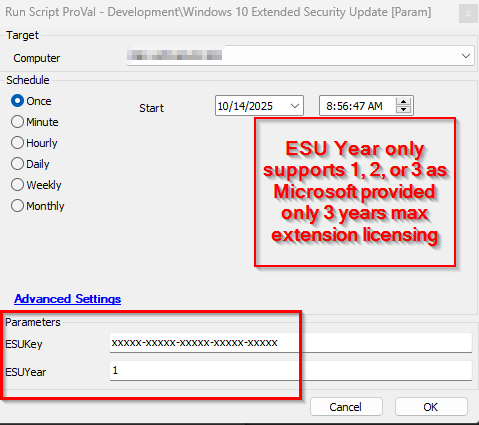
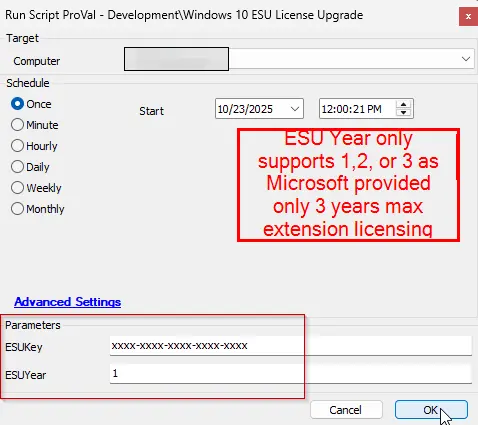
Windows 10 22H2 ESU License Status
Automate:

Script:
	esu-license-activation-detection.md
	windows-10-esu-license-upgrade

internal monitor:
	windows-10-22h2-esu-license-status

dataview:
	esu-detection-status

solution:
	windows-10-esu-licensing-and-auditing

diff --git a/docs/solutions/Windows-10-esu-licensing-and-auditing.md b/docs/solutions/Windows-10-esu-licensing-and-auditing.md
@@ -1,0 +1,85 @@
+---
+id: '7fe6a52b-79fd-487b-8009-523996e74d11'
+slug: /7fe6a52b-79fd-487b-8009-523996e74d11
+title: 'Windows 10 ESU Licensing and Auditing'
+title_meta: 'Windows 10 ESU Licensing and Auditing'
+keywords: ['esu', 'license', 'extended', 'windows-10', '22h2']
+description: 'This solution provides automated auditing of Windows 10 Extended Security Updates (ESU) license status across Windows 10 22H2 machines from ConnectWise Automate platform. It includes functionality to track activation status and optionally deploy ESU licenses when needed.'
+tags: ['licensing', 'windows', 'extensions']
+draft: false
+unlisted: false
+---
+
+## Purpose
+
+This solution provides automated auditing of Windows 10 Extended Security Updates (ESU) license status across Windows 10 22H2 machines from ConnectWise Automate platform. It includes functionality to track activation status and optionally deploy ESU licenses when needed.
+
+**References:**
+
+- [Enable Extended Security Updates](https://learn.microsoft.com/en-us/windows/whats-new/enable-extended-security-updates)
+- [Deploy Windows 10 Security Updates with Intune or SCCM](https://www.systemcenterdudes.com/deploy-windows-10-extended-security-update-key-with-intune-or-sccm/)
+
+## Associated Content
+
+### Audit Content
+
+| Content                                             | Type               | Purpose |
+|-----------------------------------------------------|--------------------|--------------------|
+| [ESU License Activation Detection](/docs/634db1b5-58a2-4571-8873-74040c203d56)      | Script             | Performs ESU activation checks on a device, collects status details and writes results to an EDF for reporting. |
+| [ESU Detection Status](/docs/57995fb1-5d65-4283-aa82-0c3f821652bc)      | Dataview           | Presents the collected ESU audit results for reporting and remediation planning. |
+| [Windows 10 22H2 ESU License Status](/docs/75abc7b8-1ff2-42d4-8028-dd0a3adaf899) | Internal Monitor   | Identifies 22H2 endpoints that have not been audited in the last 7 days. |
+| △ Custom - Execute Script - ESU License Activation Detection | Alert Template     | Automatically runs the audit script against devices detected by the internal monitor. |
+
+### Additional Content
+
+| Content                                             | Type               | Purpose |
+|-----------------------------------------------------|--------------------|--------------------|
+| [Windows 10 Extended Security Update](/docs/765670f5-5120-4066-89d8-2cda873e8212)    | Script  | On‑demand installer/activator that applies an ESU product key to a target machine using supplied runtime parameters. Designed for manual execution or scheduled use if desired. |
+
+## Implementation
+
+### Step 1
+
+Import the following content from ProSync plugin:
+
+- [Script - ESU License Activation Detection](/docs/634db1b5-58a2-4571-8873-74040c203d56)
+- [Script - Windows 10 Extended Security Update](/docs/765670f5-5120-4066-89d8-2cda873e8212)
+- [Dataview - ESU Detection Status](/docs/57995fb1-5d65-4283-aa82-0c3f821652bc)
+- [Internal Monitor - Windows 10 22H2 ESU License Status](/docs/75abc7b8-1ff2-42d4-8028-dd0a3adaf899)
+- Alert Template - △ Custom - Execute Script - ESU License Activation Detection
+
+### Step 2
+
+Reload System Cache (Ctrl + R)
+
+### Step 3
+
+Configure the auditing solution as follow:
+
+- Internal Monitor: [Windows 10 22H2 ESU License Status](/docs/75abc7b8-1ff2-42d4-8028-dd0a3adaf899)
+  - Alert Template: `△ Custom - Execute Script - ESU License Activation Detection`
+
+### Step 4
+
+- Use [ESU Detection Status](/docs/57995fb1-5d65-4283-aa82-0c3f821652bc) dataview for an at‑a‑glance inventory and filtering of devices by ESU state.
+- Run [Windows 10 Extended Security Update](/docs/765670f5-5120-4066-89d8-2cda873e8212) manually on devices that require key installation, or create a scheduled job targeting non‑compliant hosts.
+
+## FAQ
+
+Q: What does this solution detect?
+A: It determines whether Windows 10 22H2 devices have ESU activated, captures activation metadata, and flags devices that have not been audited recently.
+
+Q: How frequently are devices checked?
+A: The internal monitor flags devices that haven't been audited in the last 7 days; the alert template runs the audit script against those devices automatically. You can adjust monitor frequency to fit your cadence.
+
+Q: Can ESU keys be applied automatically?
+A: The included [Windows 10 Extended Security Update](/docs/765670f5-5120-4066-89d8-2cda873e8212) script can be run on demand. For automated deployments, create a scheduled job or alert action that executes the script with the required runtime parameters against selected targets.
+
+Q: Where do I view results and plan remediation?
+A: Use the [ESU Detection Status](/docs/57995fb1-5d65-4283-aa82-0c3f821652bc) dataview to filter by ESU state, last audited date, and other attributes to build remediation lists.
+
+Q: What happens if the activation script fails on a device?
+A: The audit output will capture the failure details. Use the dataview to identify failed attempts, review the script output in the device's script history, correct any precondition issues (connectivity, privileges, key validity) and retry.
+
+Q: Is this solution limited to ConnectWise Automate?
+A: This package and the implementation instructions are tailored for ConnectWise Automate (ProSync import). The concepts (audit script, reporting, and an activation script) can be adapted to other platforms but require platform‑specific packaging and triggers.

diff --git a/docs/cwa/scripts/windows-10-esu-license-upgrade.md b/docs/cwa/scripts/windows-10-esu-license-upgrade.md
@@ -1,0 +1,46 @@
+---
+id: '765670f5-5120-4066-89d8-2cda873e8212'
+slug: /765670f5-5120-4066-89d8-2cda873e8212
+title: 'Windows 10 ESU License Upgrade'
+title_meta: 'Windows 10 ESU License Upgrade'
+keywords: ['esu', 'license', 'extended', 'windows-10', '22h2']
+description: 'Applies Extended Security Updates (ESU) license for Windows 10 22H2 systems. The Windows 10 Extended Security Updates program provides critical security patches for up to three years beyond the official end of support date. It is intended for systems that cannot be upgraded immediately due to hardware, software compatibility, or organizational constraints.'
+tags: ['licensing', 'windows', 'extensions']
+draft: false
+unlisted: false
+---
+
+## Summary
+
+Applies Extended Security Updates (ESU) license for Windows 10 22H2 systems. The Windows 10 Extended Security Updates program provides critical security patches for up to three years beyond the official end of support date. It is intended for systems that cannot be upgraded immediately due to hardware, software compatibility, or organizational constraints.
+
+**References:**
+
+- [Enable Extended Security Updates](https://learn.microsoft.com/en-us/windows/whats-new/enable-extended-security-updates)
+- [Deploy Windows 10 Security Updates with Intune or SCCM](https://www.systemcenterdudes.com/deploy-windows-10-extended-security-update-key-with-intune-or-sccm/)
+
+## File Hash
+
+**File Path:** `C:\ProgramData\_automation\Script\Apply-Windows10ESULicense\Apply-Windows10ESULicense.ps1`  
[1 lines of base64/hex data omitted]
+**File Hash (MD5):** `24CCB18FF0448B9BED43D7BC1D6F9B5E`  
+
+## Sample Run
+
+![Sample Run](../../../static/img/docs/2731179e-384e-4fda-907a-365368ebf742/image.webp)
+
+## Dependencies
+
+- [Script - ESU License Activation Detection](/docs/634db1b5-58a2-4571-8873-74040c203d56)
+- [Solution - Windows 10 ESU Licensing and Auditing](/docs/7fe6a52b-79fd-487b-8009-523996e74d11)
+
+## User Parameters
+
+| Name      | Example                  | Required | Accepted Values | Description                                                                                       |
+|-----------|--------------------------|----------|-----------------|----------------------------------------------------------------------------------|
+| ESUKey    | xxxx-xxxx-xxxx-xxxx-xxxx | True     |                 | Provide the ESU license key for the Windows 10 extended support     |
+| ESUYear   | 1                        | True     | 1, 2, 3         | Set this to the number of years for which the ESU license being issued. The max number is 3 as Microsoft has only allowed for maximum three years extension |
+
+## Output
+
+- Script log

diff --git a/docs/cwa/dataviews/esu-detection-status.md b/docs/cwa/dataviews/esu-detection-status.md
@@ -1,0 +1,34 @@
+---
+id: '57995fb1-5d65-4283-aa82-0c3f821652bc'
+slug: /57995fb1-5d65-4283-aa82-0c3f821652bc
+title: 'ESU Detection Status'
+title_meta: 'ESU Detection Status'
+keywords: ['esu', 'license', 'extended', 'windows-10', '22h2']
+description: 'This dataview displays the Windows 10 ESU extended license status audited by the script ESU License Activation Detection.'
+tags: ['licensing', 'windows', 'extensions']
+draft: false
+unlisted: false
+---
+
+## Summary
+
+This dataview displays the Windows 10 ESU extended license status audited by the [ESU License Activation Detection](/docs/634db1b5-58a2-4571-8873-74040c203d56) script.
+
+## Dependencies
+
+- [Script - ESU License Activation Detection](/docs/634db1b5-58a2-4571-8873-74040c203d56)
+- [Solution - Windows 10 ESU Licensing and Auditing](/docs/7fe6a52b-79fd-487b-8009-523996e74d11)
+
+## Columns
+
+| Column | Description |
+| ------ | ----------- |
+| ClientId     |   CW Automate client id of the agent          |
+| LocationId | CW Automate location id of the agent  |
+| ComputerId | CW Automate computer id of the agent  |
+| Client | Client name of the agent |
+| Location | Location name of the agent |
+| Computer | Computer name of the agent |
+| Operating System | Operating system information of the agent |
+| LastContact | Last contact of the agent with the CW Automate |
+| ESU Status | ESU license renewal status of the agent |

diff --git a/docs/cwa/scripts/esu-license-activation-detection.md b/docs/cwa/scripts/esu-license-activation-detection.md
@@ -1,0 +1,35 @@
+---
+id: '634db1b5-58a2-4571-8873-74040c203d56'
+slug: /634db1b5-58a2-4571-8873-74040c203d56
+title: 'ESU License Activation Detection'
+title_meta: 'ESU License Activation Detection'
+keywords: ['esu', 'license', 'extended', 'windows-10', '22h2']
+description: 'This script performs checks for ESU license activation detection and stores the information in the EDF, reflecting it in the DV.'
+tags: ['licensing', 'windows', 'extensions']
+draft: false
+unlisted: false
+---
+
+## Summary
+
+This script performs checks for ESU license activation detection and stores the information to the computer EDF `ESU Detection`, reflecting it in the [ESU Detection Status](/docs/57995fb1-5d65-4283-aa82-0c3f821652bc) dataview.
+
+## Sample Run
+
+![Sample Run](../../../static/img/docs/2731179e-384e-4fda-907a-365368ebf742/image1.webp)
+
+## Dependencies
+
+- [Solution - Windows 10 ESU Licensing and Auditing](/docs/7fe6a52b-79fd-487b-8009-523996e74d11)
+
+## EDF
+
+| Name | Type | Level | Section | Required | Description |
+| ---- | ---- | ----- | ------- | -------- | ----------- |
+| ESU Detection | Text | Computer | Windows 10 | True | Stores the ESU License Status returned by the script. |
+
+## Output
+
+- Script log
+- EDF
+- Dataview

diff --git a/docs/cwa/monitors/windows-10-22h2-esu-license-status.md b/docs/cwa/monitors/windows-10-22h2-esu-license-status.md
@@ -1,0 +1,28 @@
+---
+id: '75abc7b8-1ff2-42d4-8028-dd0a3adaf899'
+slug: /75abc7b8-1ff2-42d4-8028-dd0a3adaf899
+title: 'Windows 10 22H2 ESU License Status'
+title_meta: 'Windows 10 22H2 ESU License Status'
+keywords: ['esu', 'license', 'extended', 'windows-10', '22h2']
+description: 'Executes the auditing script once per week against Windows 10 22H2 machines.'
+tags: ['licensing', 'windows', 'extensions']
+draft: false
+unlisted: false
+---
+
+## Summary
+
+The internal monitor executes the auditing script [ESU License Activation Detection](/docs/765670f5-5120-4066-89d8-2cda873e8212) once per week against Windows 10 22H2 machines.
+
+## Dependencies
+
+- [Script - ESU License Activation Detection](/docs/765670f5-5120-4066-89d8-2cda873e8212)
+- [Solution - Windows 10 ESU Licensing and Auditing](/docs/7fe6a52b-79fd-487b-8009-523996e74d11)
+
+## Target
+
+- Global
+
+## Alert Template
+
+- `△ Custom - Execute Script - ESU License Activation Detection`

diff --git a/docs/solutions/ninja-win10-esu-licensing-auditing.md b/docs/solutions/ninja-win10-esu-licensing-auditing.md
@@ -1,8 +1,8 @@
 ---
 id: 'f1ae37d6-7fa7-414c-8550-1ae9ea11b987'
 slug: /f1ae37d6-7fa7-414c-8550-1ae9ea11b987
-title: 'Windows 10 ESU Licensing And Auditing'
-title_meta: 'Windows 10 ESU Licensing And Auditing'
+title: 'Windows 10 ESU Licensing and Auditing'
+title_meta: 'Windows 10 ESU Licensing and Auditing'
 keywords: ['esu', 'license', 'extended', 'windows-10', '22h2']
 description: 'This solution built to explain the ESU licensing audit and license activation in Ninja RMM'
 tags: ['licensing', 'windows', 'extensions']
